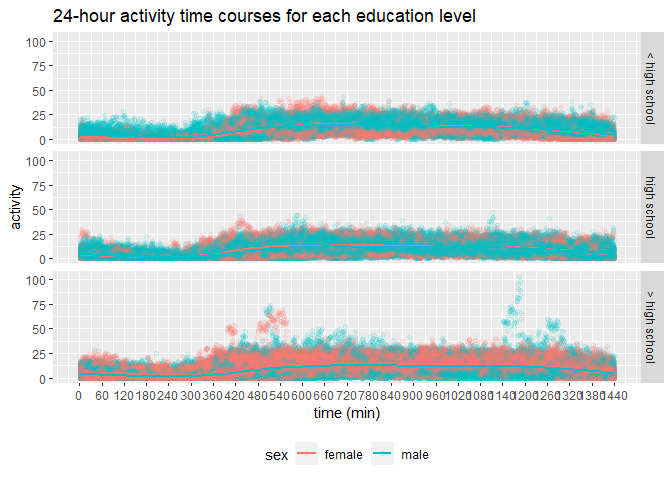
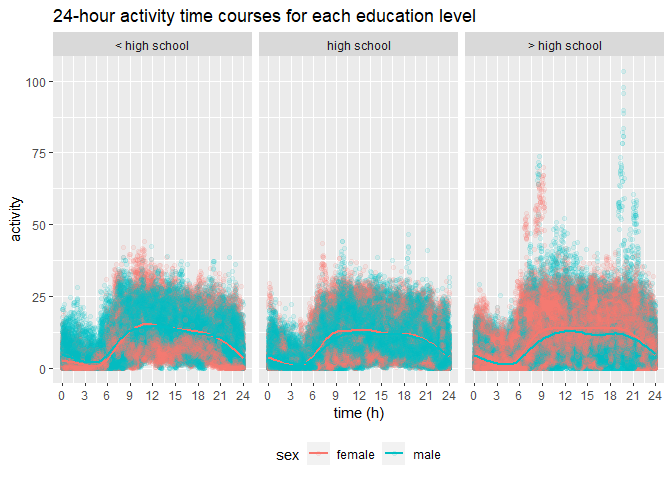
add comments

diff --git a/p8105_hw3_zl3386.md b/p8105_hw3_zl3386.md
@@ -239,6 +239,9 @@ excellent_df |>
 
 ![](p8105_hw3_zl3386_files/figure-gfm/unnamed-chunk-10-1.png)<!-- -->
 
+- In general, the proportion of `Excellent` responses in most states has
+  not shown a significant increasing or decreasing trend over the years.
+
 Make a two-panel plot showing, for the years 2006, and 2010,
 distribution of `data_value` for responses (“Poor” to “Excellent”) among
 locations in NY State.
@@ -257,6 +260,10 @@ brfss_df |>
 ```
 
 ![](p8105_hw3_zl3386_files/figure-gfm/unnamed-chunk-11-1.png)<!-- -->
+
+- Compared to 2006, there has been a significant increase in the
+  proportion of `Very good` responses among locations in NY State in
+  2010.
 
 ## Problem 3
 
@@ -404,13 +411,21 @@ nhanes_df |>
   geom_smooth(aes(group = sex), se = FALSE, alpha = 1) +
   labs(
     title = "24-hour activity time courses for each education level",
-    x = "time (min)"
+    x = "time (h)"
     ) +
-  scale_x_continuous(breaks = seq(0, 1440, by = 60)) +
-  facet_grid(education ~ .) +
+  scale_x_continuous(
+    breaks = seq(0, 1440, by = 180),
+    labels = as.character(seq(0, 24, by = 3))
+    ) +
+  facet_grid(. ~ education) +
   theme(legend.position = "bottom") 
 ```
 
     ## `geom_smooth()` using method = 'gam' and formula = 'y ~ s(x, bs = "cs")'
 
 ![](p8105_hw3_zl3386_files/figure-gfm/unnamed-chunk-15-1.png)<!-- -->
+
+- From the plot, we can see that in general, the activity level
+  increases from a low level in the morning (6 ~ 12 h), remains stable
+  in the afternoon and evening (12 ~ 21), and goes back to low level at
+  night (21 ~ 6 h next day).
